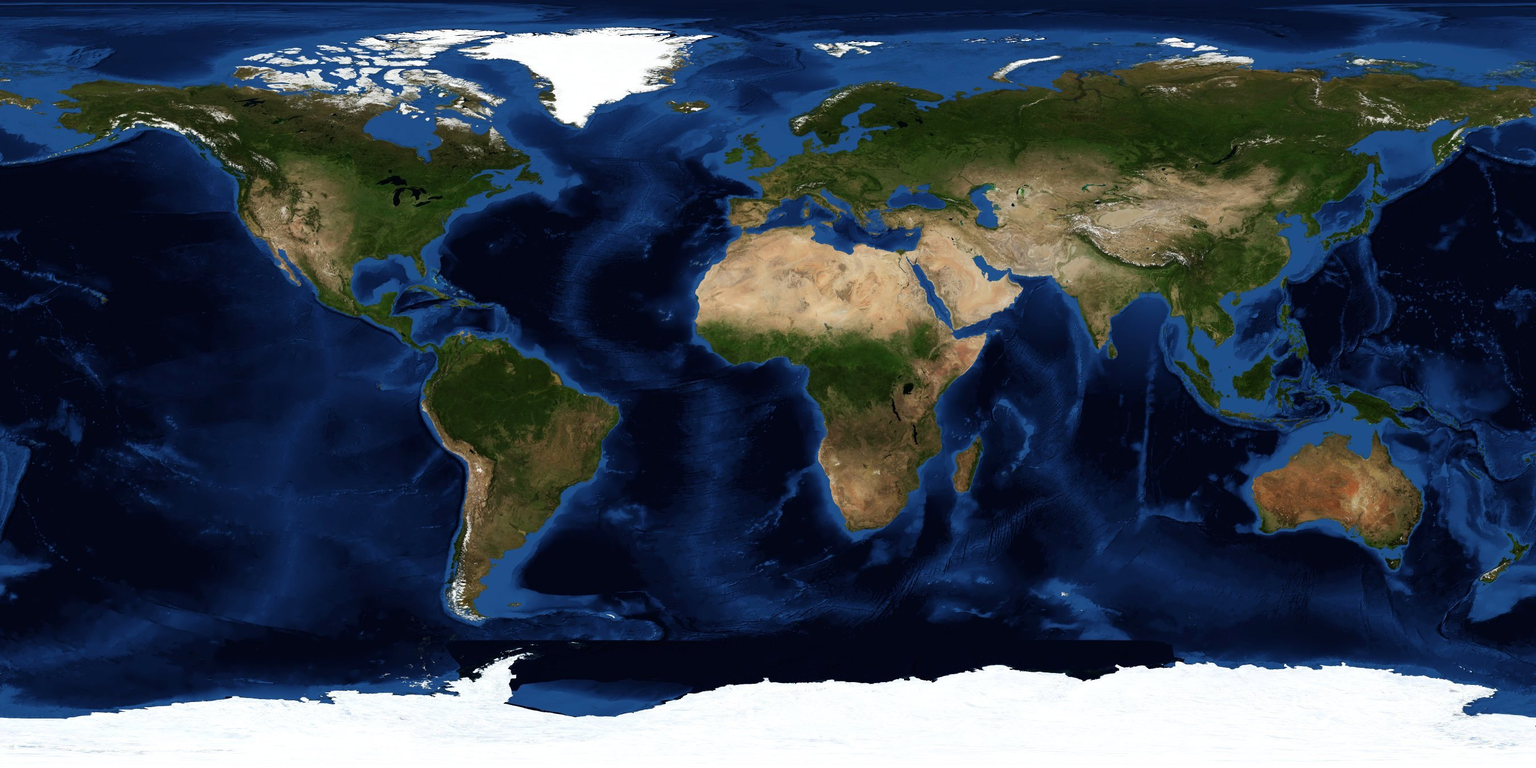
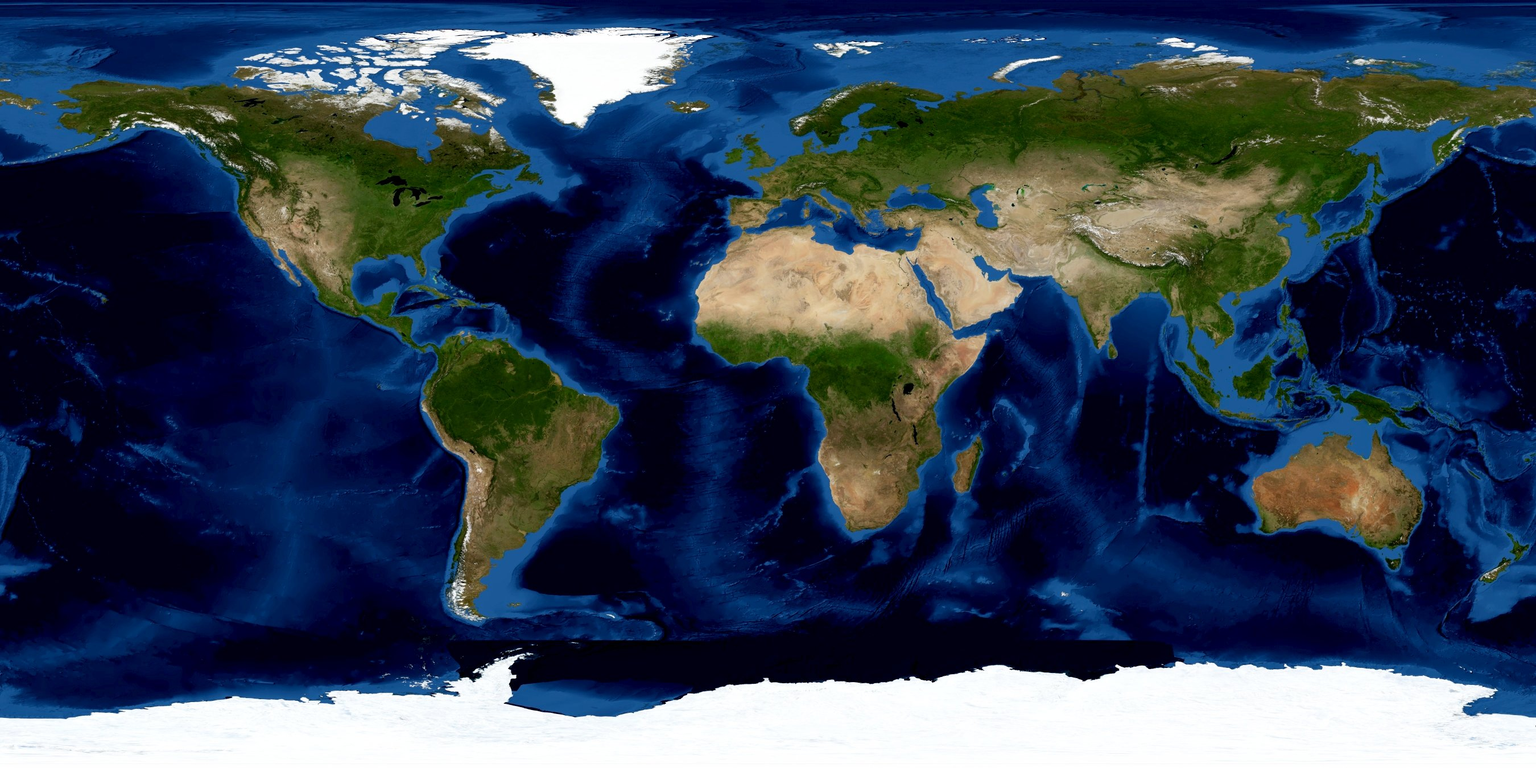
- 6 digits column and row coordinates for tiles 	- adjusting the BlueMarble and CityLights theme appearance 	  to the uploaded tiles
svn path=/trunk/KDE/kdeedu/marble/; revision=691878

diff --git a/src/lib/tilescissor.cpp b/src/lib/tilescissor.cpp
@@ -23,6 +23,7 @@
 #include "katlasdirs.h"
 #include "TileLoader.h"
 
+const int tileDigits = 6;
 
 TileScissor::TileScissor(const QString& prefix, const QString& installmap,
                          const QString& dem, const QString& targetDir) 
@@ -117,7 +118,7 @@ void TileScissor::createTiles()
 
     for ( int n = 0; n < nmax; n++ ) {
         QString dirname( m_targetDir
-                         + QString("%1/%2").arg(maxtilelevel).arg( n, 4, 10, QChar('0') ) );
+                         + QString("%1/%2").arg(maxtilelevel).arg( n, tileDigits, 10, QChar('0') ) );
         if ( !QDir( dirname ).exists() ) 
             ( QDir::root() ).mkpath( dirname );
     }
@@ -147,7 +148,7 @@ void TileScissor::createTiles()
 
             QImage tile = row.copy( m * imgw / mmax, 0, 675, 675 );
 
-            tilename = m_targetDir + QString("%1/%2/%2_%3.jpg").arg( maxtilelevel ).arg( n, 4, 10, QChar('0') ).arg( m, 4, 10, QChar('0') );
+            tilename = m_targetDir + QString("%1/%2/%2_%3.jpg").arg( maxtilelevel ).arg( n, tileDigits, 10, QChar('0') ).arg( m, tileDigits, 10, QChar('0') );
 
             if ( m_dem == "true" ) {
                 tile = tile.convertToFormat(QImage::Format_Indexed8, 
@@ -177,7 +178,7 @@ void TileScissor::createTiles()
 
         for ( int n = 0; n < nmaxit; n++ ) {
             QString  dirname( m_targetDir
-                              + QString("%1/%2").arg(tilelevel).arg( n, 4, 10, QChar('0') ) );
+                              + QString("%1/%2").arg(tilelevel).arg( n, tileDigits, 10, QChar('0') ) );
 
             // qDebug() << "dirname: " << dirname;
             if ( !QDir( dirname ).exists() ) 
@@ -186,16 +187,16 @@ void TileScissor::createTiles()
             int  mmaxit = TileLoader::levelToColumn( tilelevel );;
             for ( int m = 0; m < mmaxit; m++ ) {
 
-                tilename = m_targetDir + QString("%1/%2/%2_%3.jpg").arg( tilelevel + 1 ).arg( 2*n, 4, 10, QChar('0') ).arg( 2*m, 4, 10, QChar('0') );
+                tilename = m_targetDir + QString("%1/%2/%2_%3.jpg").arg( tilelevel + 1 ).arg( 2*n, tileDigits, 10, QChar('0') ).arg( 2*m, tileDigits, 10, QChar('0') );
                 QImage  img_topleft( tilename );
 				
-                tilename = m_targetDir + QString("%1/%2/%2_%3.jpg").arg( tilelevel + 1 ).arg( 2*n, 4, 10, QChar('0') ).arg( 2*m+1, 4, 10, QChar('0') );
+                tilename = m_targetDir + QString("%1/%2/%2_%3.jpg").arg( tilelevel + 1 ).arg( 2*n, tileDigits, 10, QChar('0') ).arg( 2*m+1, tileDigits, 10, QChar('0') );
                 QImage  img_topright( tilename );
 
-                tilename = m_targetDir + QString("%1/%2/%2_%3.jpg").arg( tilelevel + 1 ).arg( 2*n+1, 4, 10, QChar('0') ).arg( 2*m, 4, 10, QChar('0') );
+                tilename = m_targetDir + QString("%1/%2/%2_%3.jpg").arg( tilelevel + 1 ).arg( 2*n+1, tileDigits, 10, QChar('0') ).arg( 2*m, tileDigits, 10, QChar('0') );
                 QImage  img_bottomleft( tilename );
 				
-                tilename = m_targetDir + QString("%1/%2/%2_%3.jpg").arg( tilelevel + 1 ).arg( 2*n+1, 4, 10, QChar('0') ).arg( 2*m+1, 4, 10, QChar('0') );
+                tilename = m_targetDir + QString("%1/%2/%2_%3.jpg").arg( tilelevel + 1 ).arg( 2*n+1, tileDigits, 10, QChar('0') ).arg( 2*m+1, tileDigits, 10, QChar('0') );
                 QImage  img_bottomright( tilename );
 
                 QImage  tile = img_topleft;
@@ -259,7 +260,7 @@ void TileScissor::createTiles()
                     }
                 }
 
-                tilename = m_targetDir + QString("%1/%2/%2_%3.jpg").arg( tilelevel ).arg( n, 4, 10, QChar('0') ).arg( m, 4, 10, QChar('0') );
+                tilename = m_targetDir + QString("%1/%2/%2_%3.jpg").arg( tilelevel ).arg( n, tileDigits, 10, QChar('0') ).arg( m, tileDigits, 10, QChar('0') );
                 bool noerr = tile.save( tilename, "jpg", 100 );
                 if ( noerr == false ) 
                     qDebug() << "Error while writing Tile: " << tilename;;
@@ -289,7 +290,7 @@ void TileScissor::createTiles()
             for ( int m = 0; m < mmaxit; m++) { 
                 microcount++;
 
-                tilename = m_targetDir + QString("%1/%2/%2_%3.jpg").arg( tilelevel ).arg( n, 4, 10, QChar('0') ).arg( m, 4, 10, QChar('0') );
+                tilename = m_targetDir + QString("%1/%2/%2_%3.jpg").arg( tilelevel ).arg( n, tileDigits, 10, QChar('0') ).arg( m, tileDigits, 10, QChar('0') );
                 QImage tile( tilename );
 
                 bool noerr = tile.save( tilename, "jpg", 85 );

diff --git a/src/lib/TileLoader.cpp b/src/lib/TileLoader.cpp
@@ -38,6 +38,8 @@
 # endif
 #endif
 
+const int tileDigits = 6;
+
 
 TileLoader::TileLoader( const QString& theme )
 {
@@ -168,7 +170,7 @@ int TileLoader::maxCompleteTileLevel( const QString& theme )
 
             for ( int m = 0; m < mmaxit; ++m ) {
                 QString tilepath = KAtlasDirs::path( QString("%1/%2/%3/%3_%4.jpg")
-                                                     .arg(theme).arg( trylevel ).arg( n, 4, 10, QChar('0') ).arg( m, 4, 10, QChar('0') ) );
+                                                     .arg(theme).arg( trylevel ).arg( n, tileDigits, 10, QChar('0') ).arg( m, tileDigits, 10, QChar('0') ) );
                 // qDebug() << tilepath;
                 noerr = QFile::exists( tilepath );
                 if ( noerr == false )
@@ -226,7 +228,7 @@ bool TileLoader::baseTilesAvailable( const QString& theme )
 
     // Check whether the two tiles from the lowest texture level are available
     for ( int m = 0; m < 2; ++m ) {
-        QString tilepath = KAtlasDirs::path( QString("%1/%2/%3/%3_%4.jpg").arg(theme).arg( 0 ).arg( 0, 4, 10, QChar('0') ).arg( m, 4, 10, QChar('0') ) );
+        QString tilepath = KAtlasDirs::path( QString("%1/%2/%3/%3_%4.jpg").arg(theme).arg( 0 ).arg( 0, tileDigits, 10, QChar('0') ).arg( m, tileDigits, 10, QChar('0') ) );
 
         noerr = QFile::exists( tilepath );
 

diff --git a/src/lib/TextureTile.cpp b/src/lib/TextureTile.cpp
@@ -16,6 +16,8 @@
 #include "katlasdirs.h"
 #include "TileLoader.h"
 
+const int tileDigits = 6;
+
 
 static uint **jumpTableFromQImage32( QImage &img )
 {
@@ -101,8 +103,8 @@ void TextureTile::loadTile( int x, int y, int level,
 
 	QString relfilename = QString("%1/%2/%3/%3_%4.jpg")
 	    .arg(theme).arg(i)
-	    .arg( (int)(testy1), 4, 10, QChar('0') )
-	    .arg( (int)(testx1), 4, 10, QChar('0') );
+	    .arg( (int)(testy1), tileDigits, 10, QChar('0') )
+	    .arg( (int)(testx1), tileDigits, 10, QChar('0') );
 
 	absfilename = KAtlasDirs::path( relfilename );
 
